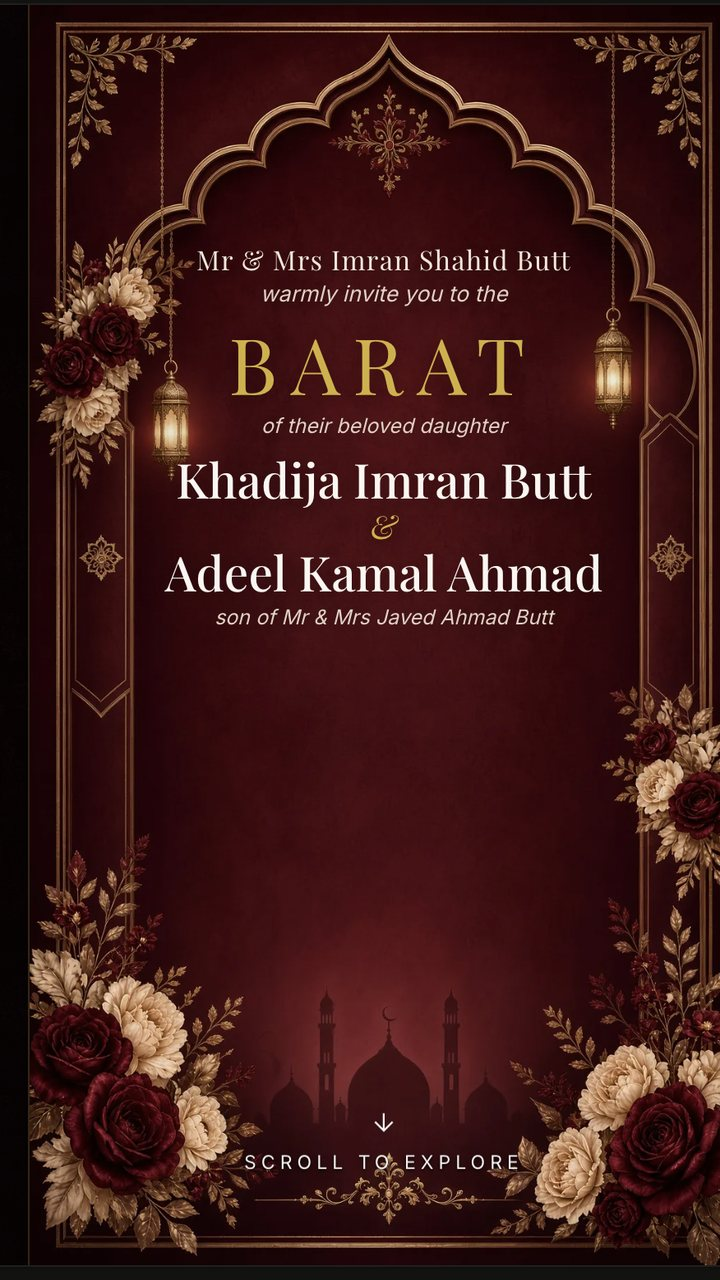
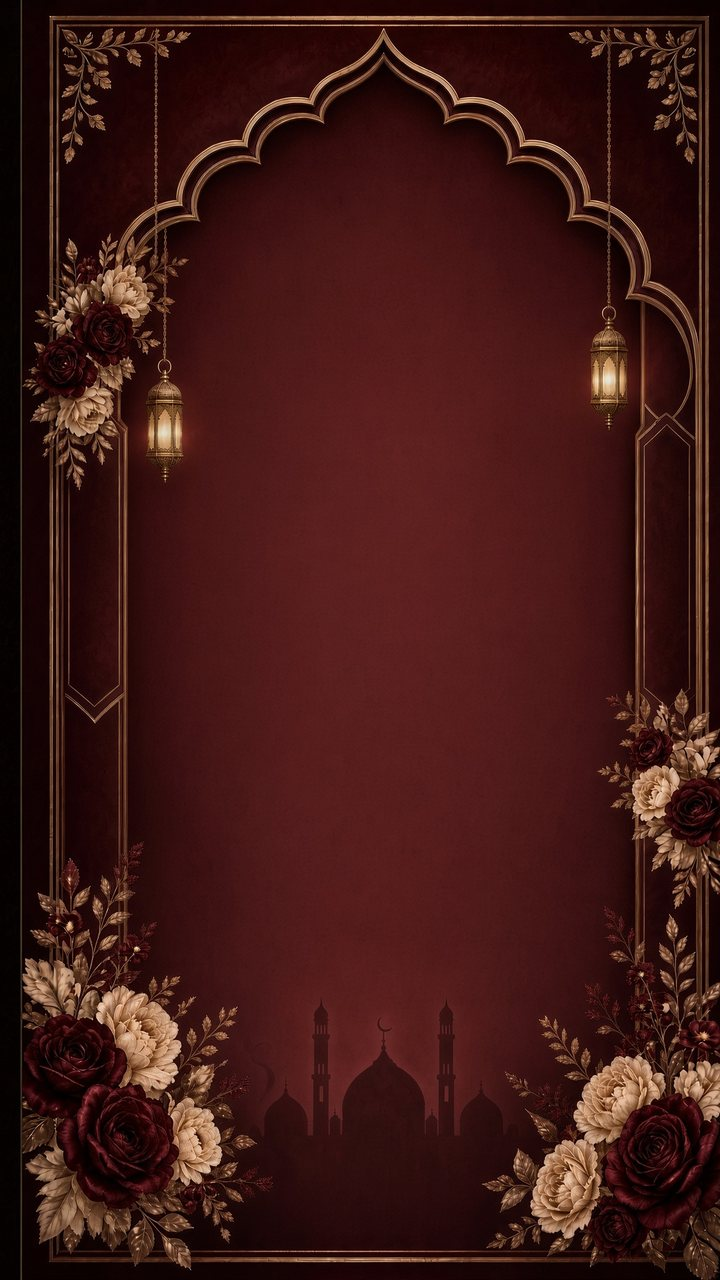
Fix doubled hero text and off-center phone card (#7)
The arch JPEG had the names baked in, so they stacked on the HTML
overlay. Replaced it with an empty-center frame.

Size the 9:16 card from the hero box (100% / dvh) instead of 100vw so
iOS Safari does not shift it off-center.

Changed region(s): [[0.0306, 0.0, 1.0, 1.0], [0.0, 0.9688, 0.0306, 1.0], [0.0, 0.0, 0.0306, 0.0312]]

diff --git a/index.html b/index.html
@@ -6,8 +6,8 @@
     <meta name="theme-color" content="#2a080c">
     <meta name="description" content="You are invited to the Barat of Khadija Imran Butt and Adeel Kamal Ahmad. November 10, 2026 · Lahore.">
     <title>BARAT · Adeel & Khadija</title>
-    <link rel="stylesheet" href="style.css">
-    <link rel="preload" as="image" type="image/webp" href="assets/hero-arch.webp">
+    <link rel="stylesheet" href="style.css?v=4">
+    <link rel="preload" as="image" type="image/webp" href="assets/hero-arch.webp?v=4">
     <link href="https://fonts.googleapis.com/css2?family=Playfair+Display:ital,wght@0,400;0,500;0,600;0,700;1,400;1,500&family=Cormorant+Garamond:ital,wght@0,300;0,400;0,500;1,300;1,400&family=Inter:wght@300;400;500&display=swap" rel="stylesheet">
 </head>
 <body class="curtain-intro">
@@ -31,15 +31,15 @@
                 <picture>
                     <source
                         type="image/webp"
-                        srcset="assets/hero-arch-720.webp 720w, assets/hero-arch.webp 876w"
+                        srcset="assets/hero-arch-720.webp?v=4 720w, assets/hero-arch.webp?v=4 1008w"
                         sizes="(max-width: 700px) 100vw, min(100vw, 56vh)">
                     <img
                         class="hero-card"
-                        src="assets/hero-arch.jpg"
-                        srcset="assets/hero-arch-720.jpg 720w, assets/hero-arch.jpg 876w"
+                        src="assets/hero-arch.jpg?v=4"
+                        srcset="assets/hero-arch-720.jpg?v=4 720w, assets/hero-arch.jpg?v=4 1008w"
                         sizes="(max-width: 700px) 100vw, min(100vw, 56vh)"
-                        width="876"
-                        height="1558"
+                        width="1008"
+                        height="1792"
                         alt=""
                         decoding="async"
                         fetchpriority="high">

diff --git a/style.css b/style.css
@@ -187,7 +187,8 @@ body.curtain-intro {
 
 /* ── HERO ────────────────────────────────────────────── */
 .hero {
-    height: 100vh;
+    width: 100%;
+    height: 100svh;
     height: 100dvh;
     min-height: 0;
     display: flex;
@@ -217,10 +218,12 @@ body.curtains-open .hero { filter: brightness(1); }
 .hero-stage {
     position: relative;
     z-index: 1;
-    width: min(100vw, calc(100vh * 9 / 16));
-    height: min(100vh, calc(100vw * 16 / 9));
-    width: min(100vw, calc(100dvh * 9 / 16));
-    height: min(100dvh, calc(100vw * 16 / 9));
+    aspect-ratio: 9 / 16;
+    width: min(100%, calc(100dvh * 9 / 16));
+    height: auto;
+    max-height: 100%;
+    margin-inline: auto;
+    flex-shrink: 0;
     container-type: size;
     overflow: hidden;
     box-shadow:
@@ -998,9 +1001,8 @@ form {
 
 @media (orientation: landscape) and (max-height: 520px) {
     .hero-stage {
-        width: 100vw;
-        height: 100vh;
-        height: 100dvh;
+        width: min(100%, calc(100dvh * 9 / 16));
+        max-height: 100%;
     }
     .hero-card { object-fit: cover; object-position: center; }
     .hero-content { padding: 10% 12% 18%; }
